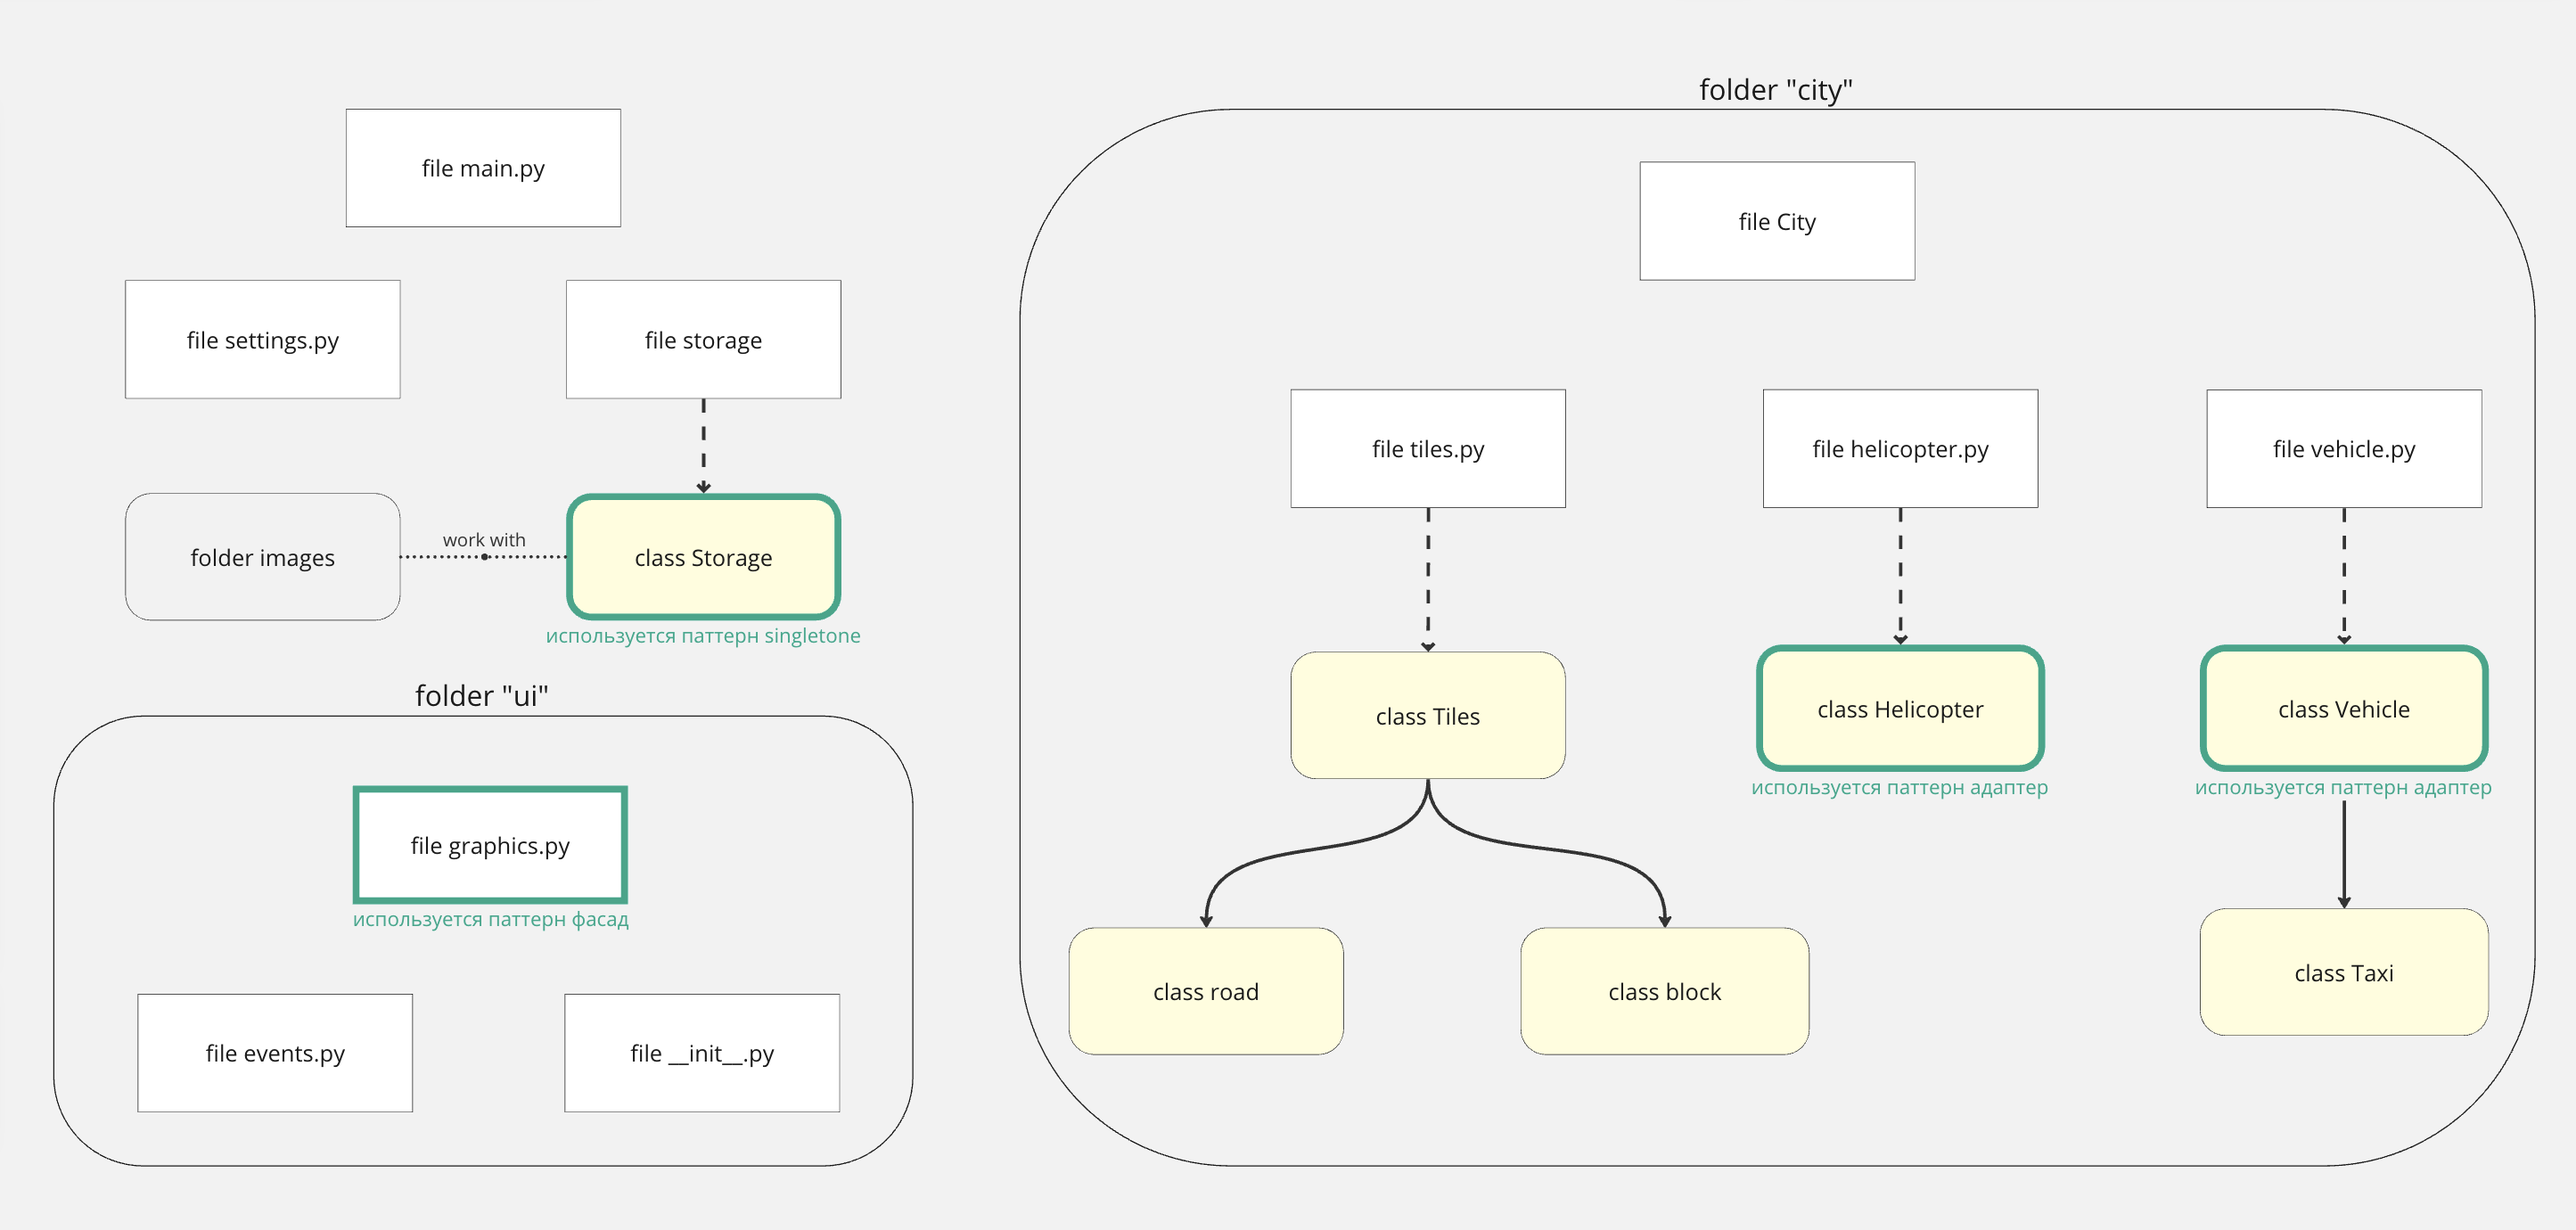
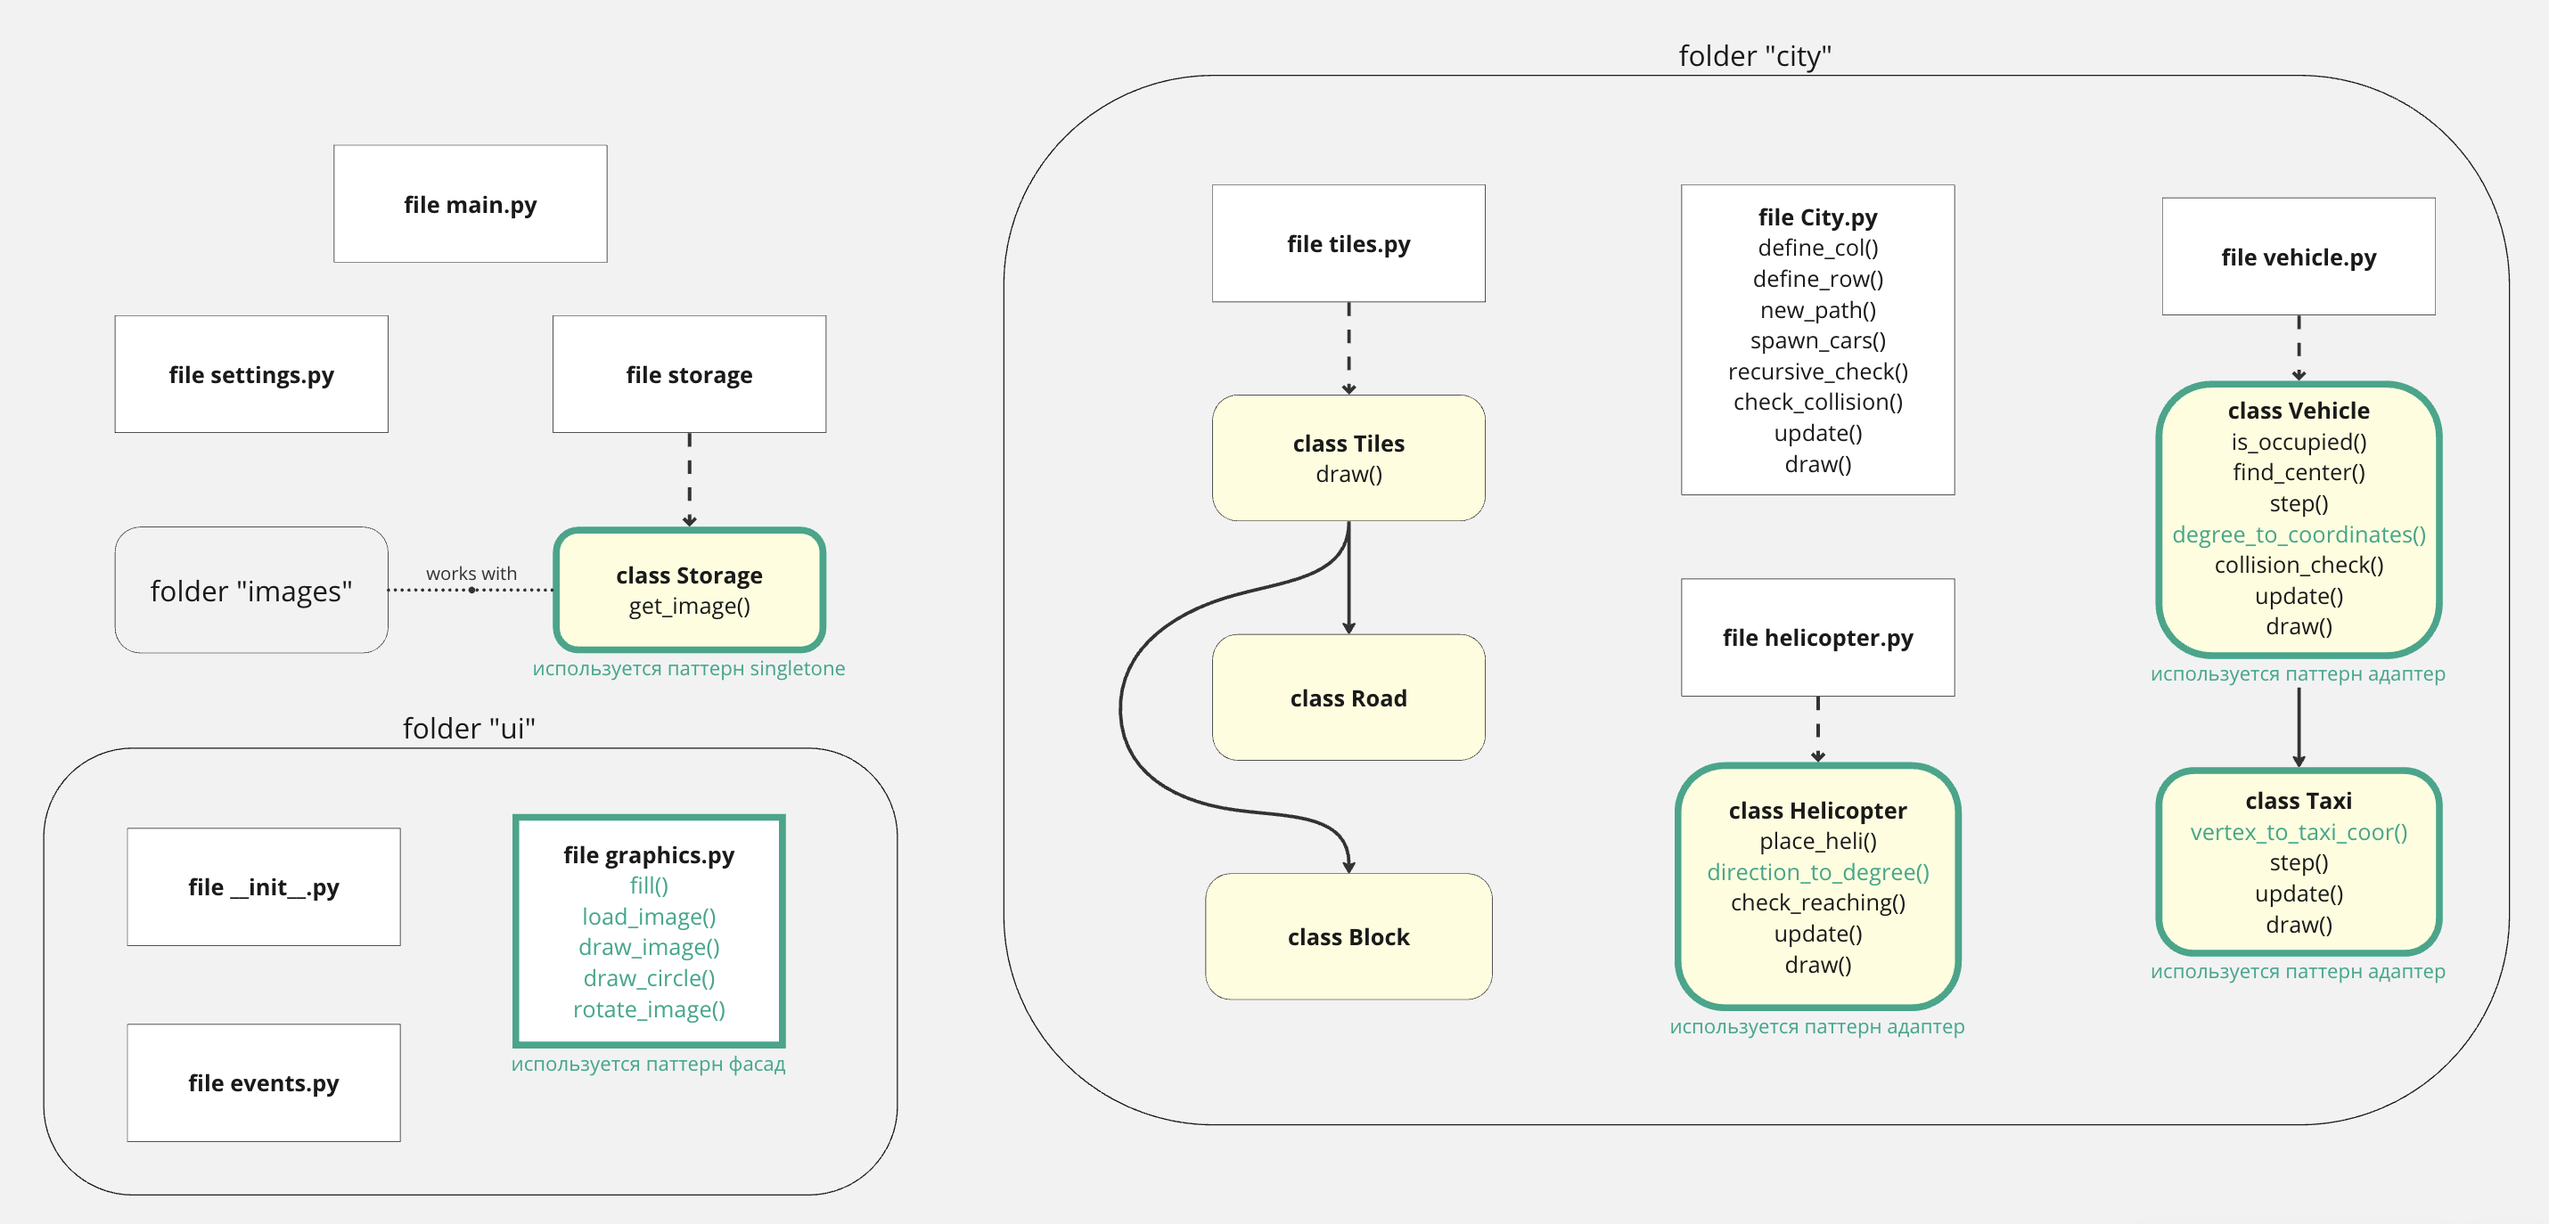
last commit 1

diff --git a/city/helicopter.py b/city/helicopter.py
@@ -98,22 +98,17 @@ class Helicopter():
                 if self.car.isTaxi:
                     City.taxi.remove(self.car)
 
-    # Функция забирает машину вместе с вертолетом
-    def get_car(self):
-        self.car.followed = self
-        self.car.is_collisioned = False
-
     # Функция прорисовки
     def draw(self):
         if City.time_city % 6 <= 1:
-            graphics.draw_image(graphics.rotatet_image(storage.im_dict['hel1'], self.degree),
+            graphics.draw_image(graphics.rotate_image(storage.im_dict['hel1'], self.degree),
                                 self.x - self.length * 3 / 4,
                                 self.y - self.width * 3 / 4)
         elif City.time_city % 6 <= 3:
-            graphics.draw_image(graphics.rotatet_image(storage.im_dict['hel2'], self.degree),
+            graphics.draw_image(graphics.rotate_image(storage.im_dict['hel2'], self.degree),
                                 self.x - self.length * 3 / 4,
                                 self.y - self.width * 3 / 4)
         elif City.time_city % 6 <= 5:
-            graphics.draw_image(graphics.rotatet_image(storage.im_dict['hel3'], self.degree),
+            graphics.draw_image(graphics.rotate_image(storage.im_dict['hel3'], self.degree),
                                 self.x - self.length * 3 / 4,
                                 self.y - self.width * 3 / 4)

diff --git a/city/vehicle.py b/city/vehicle.py
@@ -222,7 +222,7 @@ class Vehicle:
 
     # Функция прорисовки машины
     def draw(self):
-        graphics.draw_image(graphics.rotatet_image(self.image, self.degree), self.x, self.y)
+        graphics.draw_image(graphics.rotate_image(self.image, self.degree), self.x, self.y)
 
 
 # Класс для такси, наследуется от Vehicle
@@ -239,7 +239,7 @@ class Taxi(Vehicle):
 
         self.step()
 
-    # Функция Адаптер вершины графа в координаты, в которое должно приехать такси
+    # Функция Адаптер: вершины графа в координаты, в которое должно приехать такси
     def vertex_to_taxi_coor(self, vertex):
         row = City.define_row(vertex)
         col = City.define_col(vertex)

diff --git a/city/City.py b/city/City.py
@@ -46,7 +46,7 @@ for i in range(settings.tiles_num[0]):
     block_list.append(n_list)
 
 
-# Функция определяет ряд по номеру вершины графа
+# Функция определяет ряд по номеру вершины граф
 def define_row(vert):
     k = vert % 18
     t = vert // 18

diff --git a/ui/graphics.py b/ui/graphics.py
@@ -35,5 +35,5 @@ def draw_circle(color, x, y, r):
 
     pass
 
-def rotatet_image(image, degree):
+def rotate_image(image, degree):
     return pygame.transform.rotate(image, degree)
